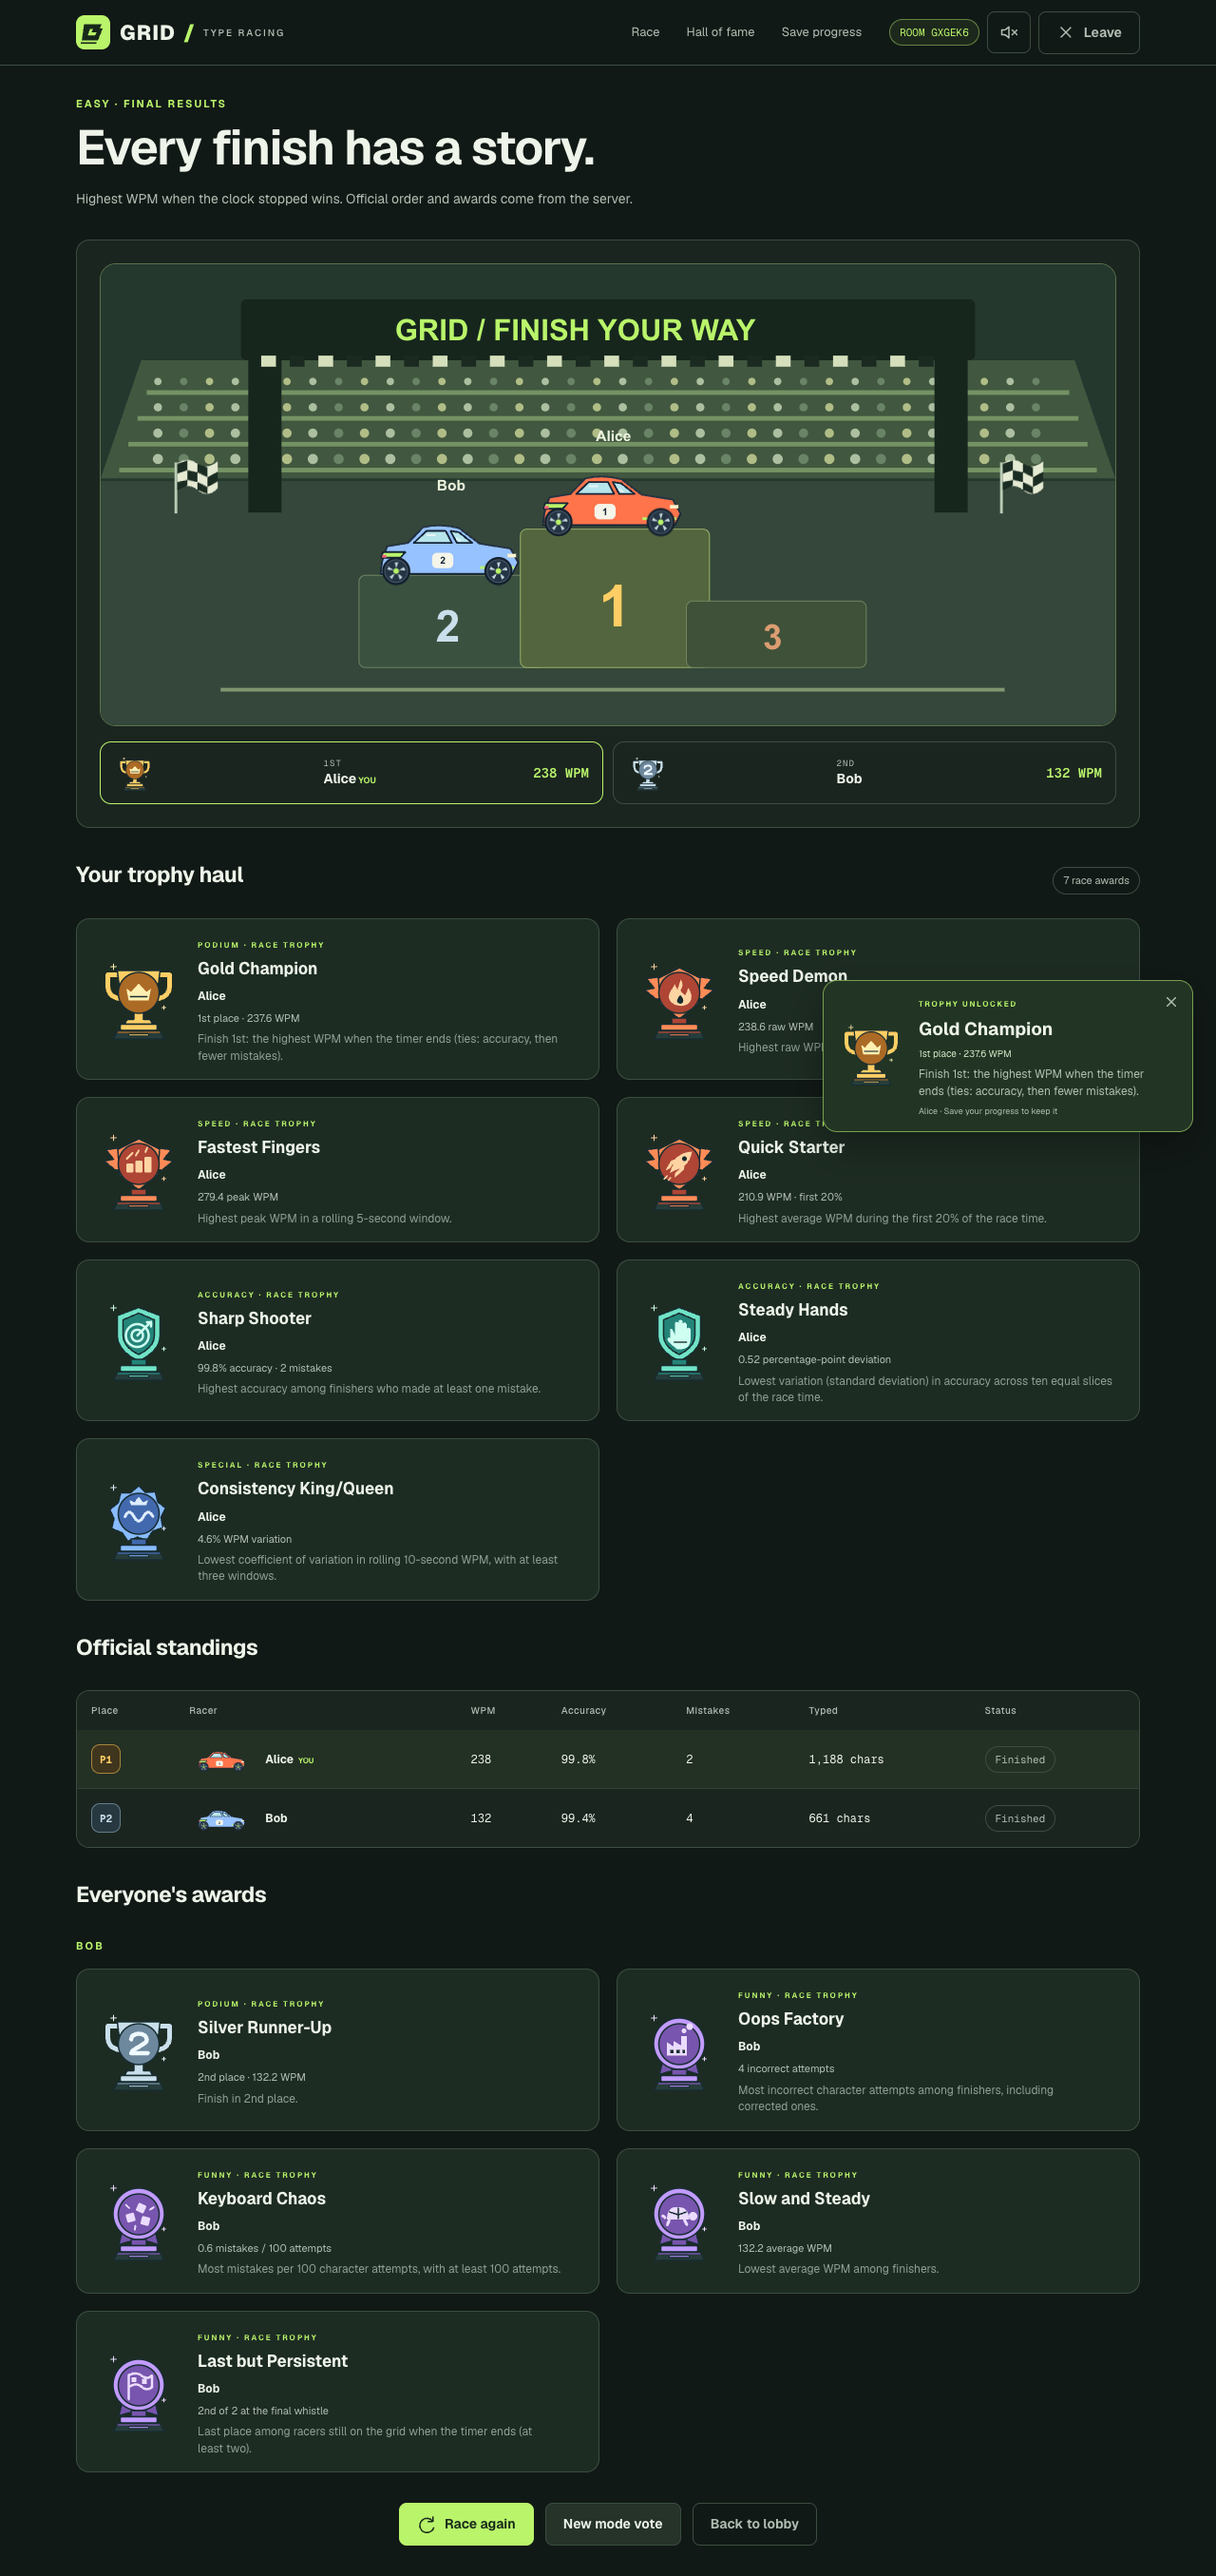
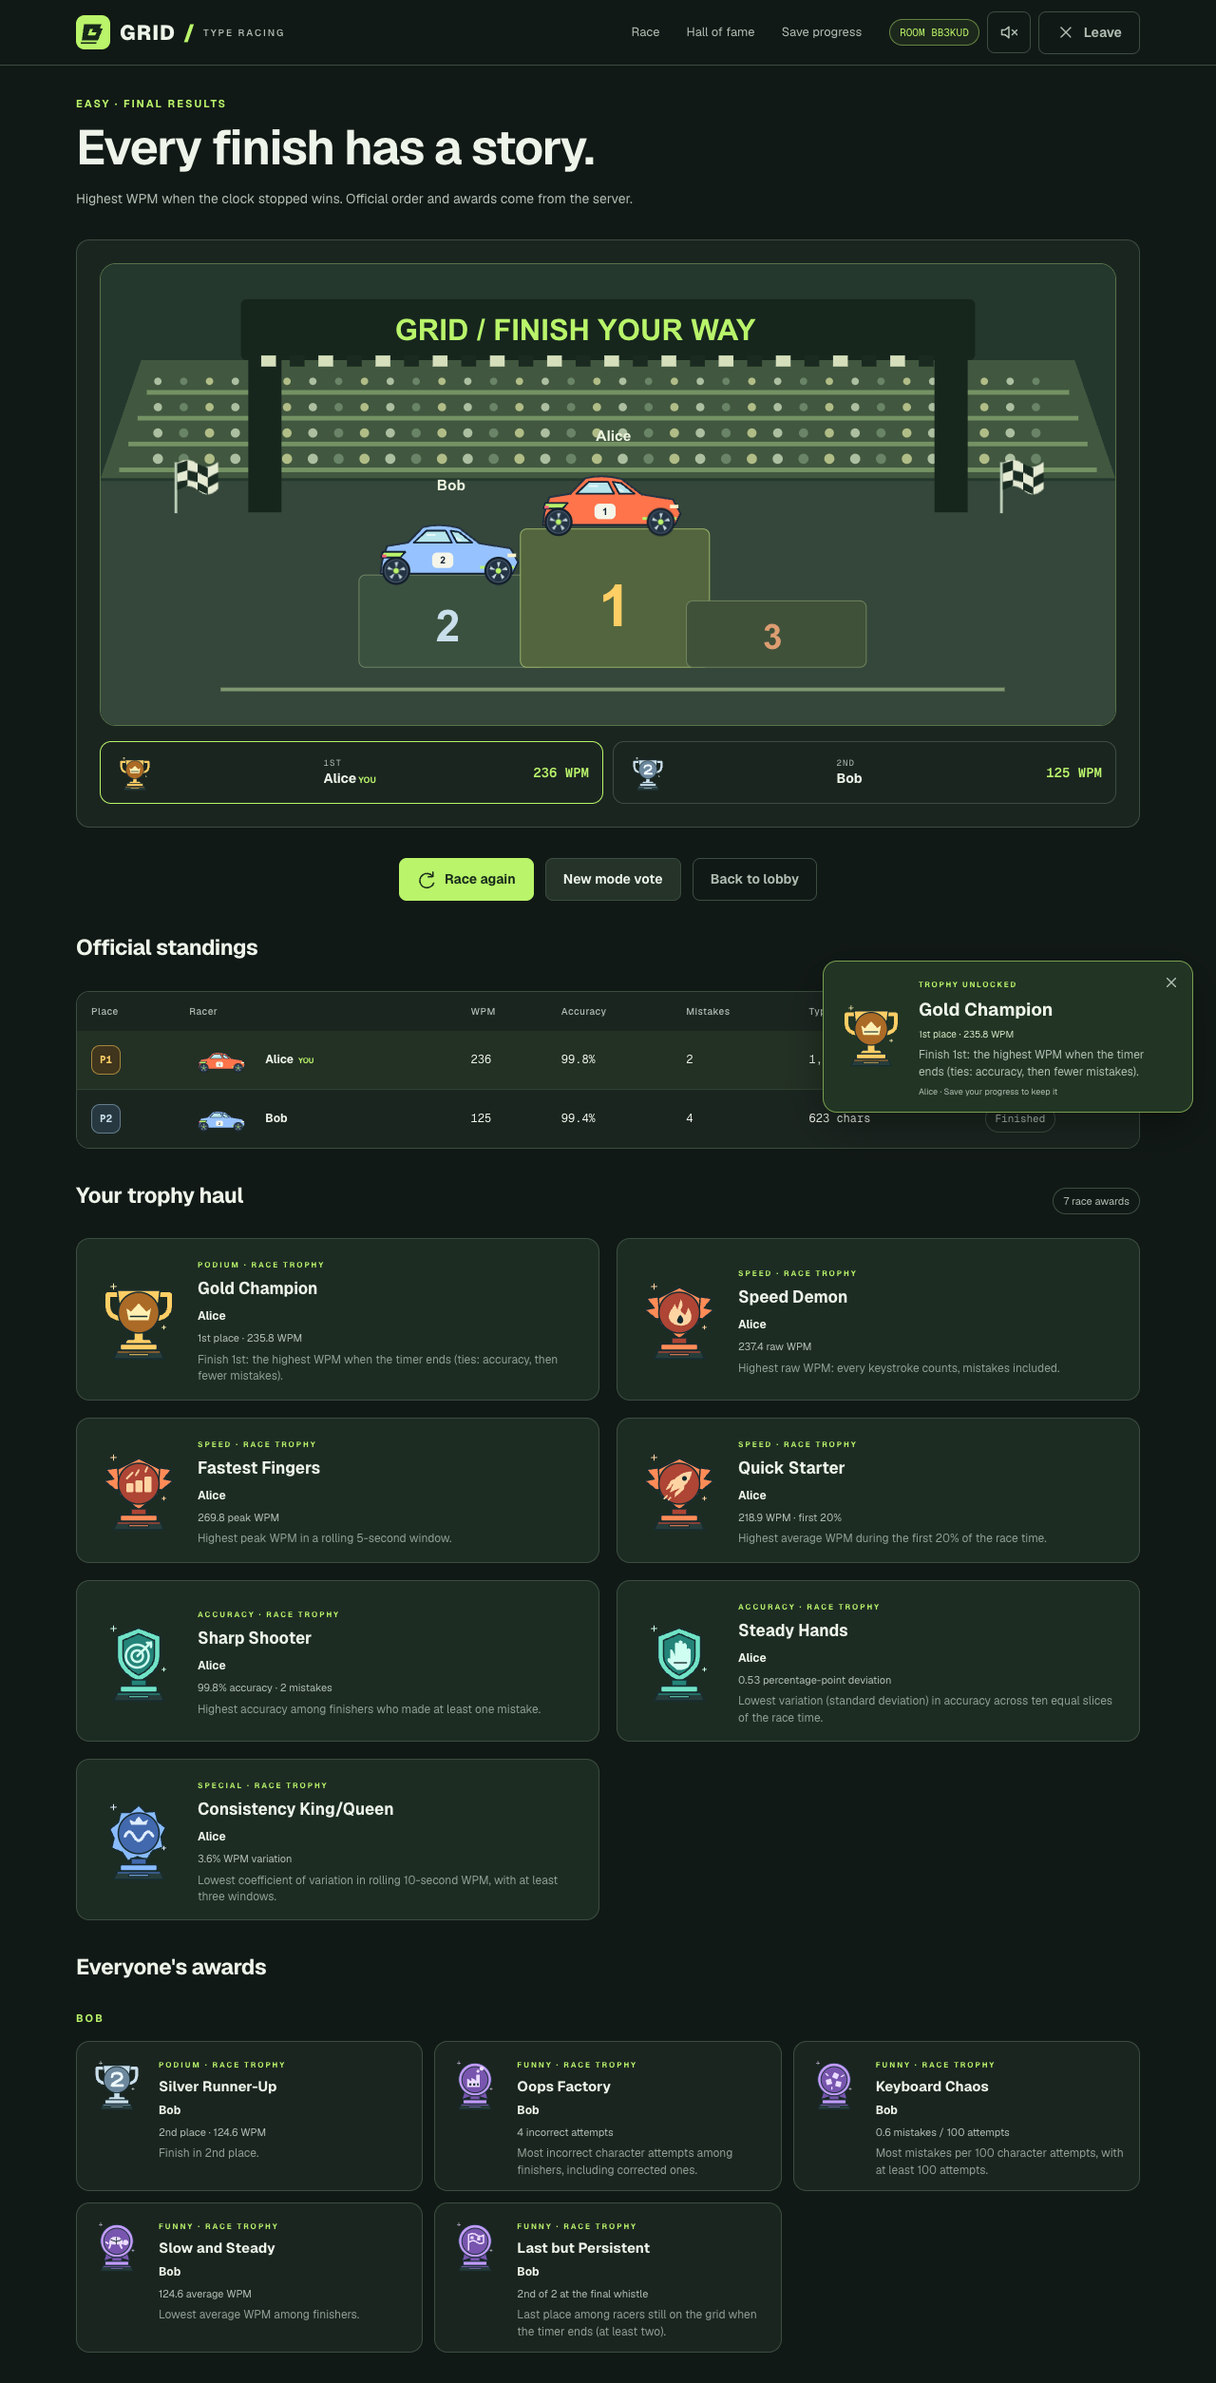
feat: results order, clubhouse fixes and tablet layout
- Results: next-step buttons under the podium, standings before trophies,
  other racers' awards in a compact three-up grid
- Clubhouse: trophy dialog centred again (preflight dropped the UA margin),
  readable names and earned counts, two-up cabinet on phones
- Waiting room on tablets: collapsed open bays, lone side card spans the row
- Screenshots: results, tablet set, signed-in profile (mock data)

diff --git a/client/src/screens/Results.tsx b/client/src/screens/Results.tsx
@@ -155,6 +155,30 @@ export function Results({ state }: { state: LobbyState }) {
         )}
       </Card>
 
+      {/* What's next sits right under the podium, not 3,000px down. */}
+      <div className="g-result-actions">
+        {isHost ? (
+          <>
+            <Button icon="refresh" loading={busy === 'rematch'} disabled={!!busy} onClick={run('rematch', () => api.startRace(lobby.id))}>
+              Race again
+            </Button>
+            <Button variant="secondary" loading={busy === 'vote'} disabled={!!busy} onClick={run('vote', () => api.startVoting(lobby.id))}>
+              New mode vote
+            </Button>
+            <Button variant="ghost" loading={busy === 'lobby'} disabled={!!busy} onClick={run('lobby', () => api.returnToLobby(lobby.id))}>
+              Back to lobby
+            </Button>
+          </>
+        ) : (
+          <p className="g-muted">Waiting for the host to choose what's next…</p>
+        )}
+      </div>
+
+      <section className="g-stack">
+        <h2 className="g-heading">Official standings</h2>
+        <ResultsTable rows={rows} />
+      </section>
+
       {me && (
         <section className="g-stack">
           <div className="g-between">
@@ -184,11 +208,6 @@ export function Results({ state }: { state: LobbyState }) {
         </section>
       )}
 
-      <section className="g-stack">
-        <h2 className="g-heading">Official standings</h2>
-        <ResultsTable rows={rows} />
-      </section>
-
       {awarded && (
         <section className="g-stack">
           <h2 className="g-heading">Everyone's awards</h2>
@@ -199,9 +218,9 @@ export function Results({ state }: { state: LobbyState }) {
               return (
                 <div key={r.id} className="g-stack">
                   <p className="g-eyebrow">{r.name}</p>
-                  <div className="g-grid-2">
+                  <div className="award-grid--compact">
                     {[...theirs.race, ...theirs.progression].map((a) => (
-                      <AwardCard key={a.trophy} award={a} recipient={r.name} reveal={false} />
+                      <AwardCard key={a.trophy} award={a} recipient={r.name} reveal={false} compact />
                     ))}
                   </div>
                 </div>
@@ -210,23 +229,6 @@ export function Results({ state }: { state: LobbyState }) {
         </section>
       )}
 
-      <div className="g-result-actions">
-        {isHost ? (
-          <>
-            <Button icon="refresh" loading={busy === 'rematch'} disabled={!!busy} onClick={run('rematch', () => api.startRace(lobby.id))}>
-              Race again
-            </Button>
-            <Button variant="secondary" loading={busy === 'vote'} disabled={!!busy} onClick={run('vote', () => api.startVoting(lobby.id))}>
-              New mode vote
-            </Button>
-            <Button variant="ghost" loading={busy === 'lobby'} disabled={!!busy} onClick={run('lobby', () => api.returnToLobby(lobby.id))}>
-              Back to lobby
-            </Button>
-          </>
-        ) : (
-          <p className="g-muted">Waiting for the host to choose what's next…</p>
-        )}
-      </div>
       <ErrorText>{error}</ErrorText>
     </div>
   );

diff --git a/client/src/index.css b/client/src/index.css
@@ -608,3 +608,80 @@ html {
     font-size: 13px;
   }
 }
+
+/* Results: the next-step buttons sit under the podium; other racers' awards are compact. */
+.g-result-actions {
+  margin-top: 0;
+}
+.award-grid--compact {
+  display: grid;
+  gap: 12px;
+  grid-template-columns: repeat(auto-fill, minmax(min(100%, 300px), 1fr));
+}
+.g-award--compact {
+  align-items: flex-start;
+  padding: 12px 14px 12px 10px;
+  background: var(--g-panel);
+}
+.g-award--compact > svg {
+  width: 56px;
+}
+.g-award--compact h3 {
+  font-size: 15px;
+  margin: 4px 0 4px;
+}
+
+/* Clubhouse: dialogs centre again (preflight drops the UA margin); names outrank the rule text. */
+.w-dialog {
+  margin: auto;
+}
+.w-trophy-details {
+  display: grid;
+  justify-items: center;
+  gap: 4px;
+}
+.w-cabinet-slot strong {
+  font-size: 12px;
+  min-height: 0;
+  margin-top: 8px;
+}
+.w-cabinet-slot small {
+  display: block;
+  margin-top: 4px;
+  font-size: 9px;
+}
+.w-cabinet-slot .trophy-rule,
+.a-trophy-strip .trophy-rule {
+  font-size: 11px;
+  line-height: 1.4;
+}
+.a-trophy-strip strong {
+  font-size: 12px;
+  margin-top: 6px;
+}
+@media (max-width: 640px) {
+  .w-cabinet {
+    grid-template-columns: repeat(2, minmax(0, 1fr));
+  }
+  .w-cabinet-slot {
+    padding: 12px 8px;
+  }
+  .w-cabinet-slot strong {
+    font-size: 12px;
+  }
+  .w-cabinet-slot small {
+    font-size: 9px;
+  }
+  /* Recent trophies: one per row so the rule text has room. */
+  .a-trophy-strip {
+    grid-template-columns: 1fr;
+    gap: 16px;
+  }
+}
+
+/* Waiting room, tablet: the side cards sit two across; the odd one out spans the row. */
+@media (min-width: 601px) and (max-width: 1050px) {
+  .g-lobby-grid aside > :last-child:nth-child(odd) {
+    grid-column: 1 / -1;
+  }
+}

diff --git a/client/src/components/trophies/AwardCard.tsx b/client/src/components/trophies/AwardCard.tsx
@@ -9,14 +9,16 @@ interface Props {
   recipient: string;
   /** Plays the trophy kit's one-shot reveal animation. */
   reveal?: boolean;
+  /** Smaller card for other racers' awards. */
+  compact?: boolean;
 }
 
 /** 10-results award card (g-award) with the trophy kit artwork and the exact statistic. */
-export function AwardCard({ award, recipient, reveal = true }: Props) {
+export function AwardCard({ award, recipient, reveal = true, compact = false }: Props) {
   const info = TROPHIES[award.trophy];
   return (
-    <article className="g-award">
-      <TrophyIcon trophy={award.trophy} size={100} state={reveal ? 'reveal' : 'earned'} />
+    <article className={`g-award ${compact ? 'g-award--compact' : ''}`}>
+      <TrophyIcon trophy={award.trophy} size={compact ? 64 : 100} state={reveal ? 'reveal' : 'earned'} />
       <div>
         <span className="g-eyebrow">{CATEGORY[info.category]} · {trophyScope(award.trophy)}</span>
         <h3>{info.name}</h3>

diff --git a/client/src/components/lobby/Paddock.tsx b/client/src/components/lobby/Paddock.tsx
@@ -60,11 +60,11 @@ export function Paddock({ players }: { players: RosterPlayer[] }) {
       <div className="w-parking-grid">
         {players.map((p, i) => <Bay key={p.id} p={p} index={i} />)}
         {Array.from({ length: open }, (_, i) => (
-          <EmptyBay key={i} index={players.length + i} className="max-sm:!hidden" />
+          <EmptyBay key={i} index={players.length + i} className="max-lg:!hidden" />
         ))}
         {open > 0 && (
-          // Phones: one summary bay instead of a long column of empty seats.
-          <article className="w-parking-bay empty sm:!hidden">
+          // Phones and tablets: one summary bay instead of a long column of empty seats.
+          <article className="w-parking-bay empty lg:!hidden">
             <div className="w-bay-ground">
               <span className="w-empty-plus" aria-hidden="true">+</span>
             </div>
